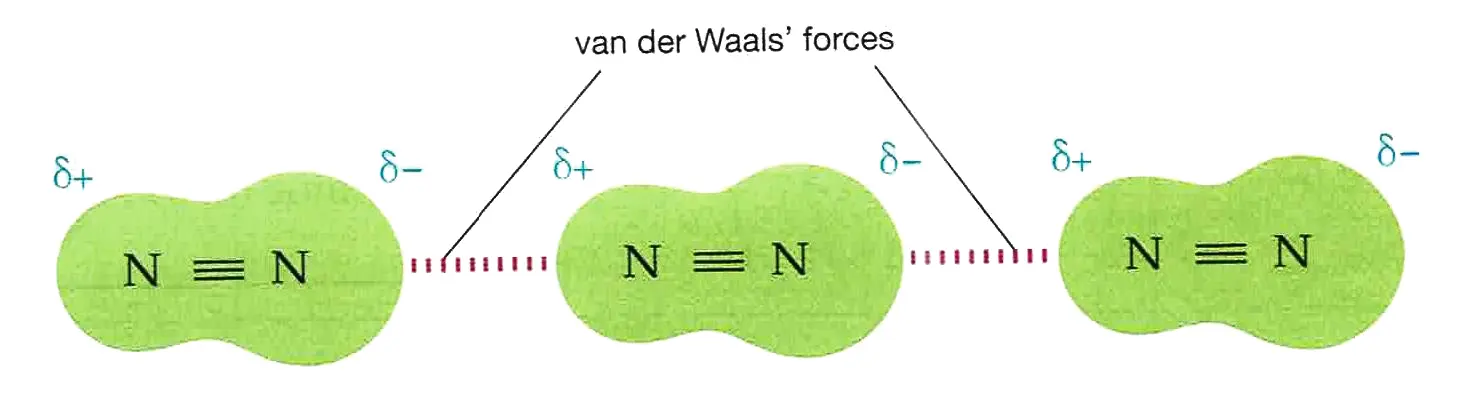
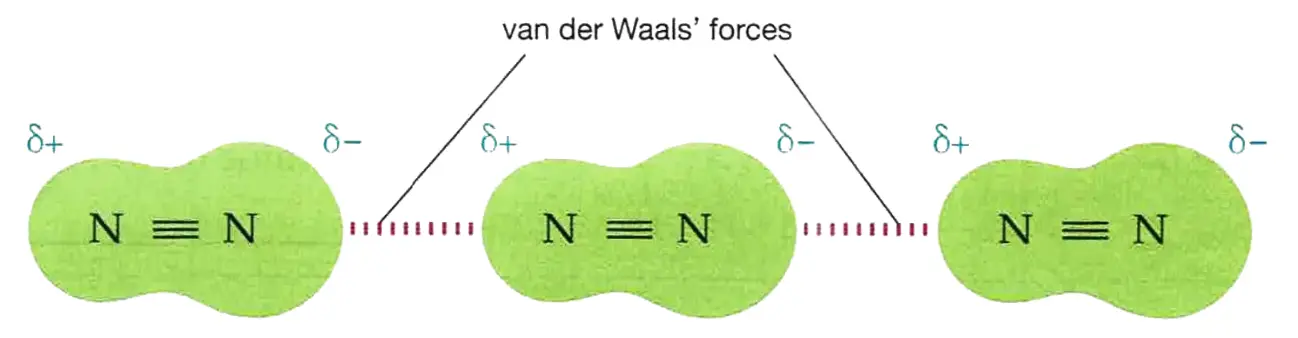
chemistry: Convert more chemical structures to TikZ

diff --git a/Chemistry/Organic Chemistry/Important organic compounds/Aspirin.md b/Chemistry/Organic Chemistry/Important organic compounds/Aspirin.md
@@ -1,4 +1,9 @@
-![[aspirin.webp|250]]
+```tikz
+\usepackage{chemfig}
+\begin{document}
+\chemfig{*6(-=(-O-[0]C(=[6]O)-[0]CH_3)-(-C(=[2]O)-[0]OH)=-=)}
+\end{document}
+```
 **Aspirin** (acetylsalicylic acid) is a common active ingredient found in <span class="hi-green">pain killers</span>. It has a <u>carboxyl group</u> ($\ce{-COOH}$) and <u>ester group</u> ($\ce{-OCOCH3}$).
 
 # Production of Aspirin
@@ -16,15 +21,34 @@
 
 ## Alternatives
 *Paracetamol*:
-![[paracetomal.webp|250]]
+```tikz
+\usepackage{chemfig}
+\begin{document}
+\chemfig{*6((-HO)-=-(-N(-[2,.35,,,,draw=none]H)-[::-60](=[6]O)-)=-=)}
+\end{document}
+```
 
 # Solubility of Aspirin
 **Aspirin** is <span class="hi-green">non-polar</span> and only <span class="hi-green">slightly soluble</span> in water.
 
 In order to make it work more quickly, it is reacted with $\ce{NaOH}$ to produce sodium salt of aspirin, which it has a giant ionic structure with ionic bond to dissolve inside stomach acid and get into the bloodstream more rapidly.
 
-![[aspirin_dissolve.webp|600]]
+```tikz
+\usepackage{chemfig}
+\begin{document}
+\chemfig{*6(-=(-OCOCH_3)-(-COOH)=-=)}
+\raisebox{0.4cm}{
+\quad + \quad
+\chemfig{NaOH}
+\quad\raisebox{0.1cm}{\schemestart\arrow\schemestop}\quad
+}
+\chemfig{*6(-=(-OCOCH_3)-(-COO^{-}Na^{+})=-=)}
+\raisebox{0.4cm}{
+\quad + \quad
+\chemfig{H_2O}
+}
+\end{document}
+```
 
 > [!warning]
 > To not lose the chemical function of aspirin, the reaction mixture <u>will not be heated under reflux</u>. This prevents the alkaline hydrolysis of the ester group of aspirin.
-

diff --git a/Chemistry/Structures and Patterns in Chemicals/Structure and bondings/Simple molecules/Intermolecular forces/Van der Waals' forces.md b/Chemistry/Structures and Patterns in Chemicals/Structure and bondings/Simple molecules/Intermolecular forces/Van der Waals' forces.md
@@ -6,7 +6,7 @@
 **Polar molecules** have permanent partial positive and partial negative charges, allowing them to be attracted to an end of another molecule by van der Waals’ forces (dipole-dipole forces).
 
 ## Non-polar molecules
-![[n2_vdw.webp|450]]
+![[n2_vdw.webp|500]]
 **Non-polar molecules** have no permanent partial positive and partial negative charges.
 
 However, the random movements of electrons causes an uneven distribution of electrons in atoms of non-polar molecules. This causes the molecule to become polar (the atoms carry partial positive and partial negative charge) instantaneously.
@@ -31,4 +31,3 @@ This force is also know as dispersion forces / London forces.
 > ![[mpbp_shapes_of_molecules.webp|500]]
 > - Pentane has a higher boiling point as it is <span class="hi-green">more linear in shape</span> than 2,2-dimethylpropane, the contact surface area between molecules is larger. The strength of van der Waals' forces is higher <u>in liquid state</u>.
 > - 2,2-dimethylpropane has a higher melting point as it has a <span class="hi-green">higher packing efficiency</span> than pentane. The strength of van der Waals' forces is higher <u>in solid state</u>.
-

diff --git a/Chemistry/Structures and Patterns in Chemicals/Structure and bondings/Simple molecules/Intermolecular forces/Solubility and miscibility.md b/Chemistry/Structures and Patterns in Chemicals/Structure and bondings/Simple molecules/Intermolecular forces/Solubility and miscibility.md
@@ -23,9 +23,14 @@ In general: [[ionic bonds]] ≈ [[hydrogen bonds]] >> [[van der Waals' forces]]
 # Predominant force
 Molecules which can form hydrogen bond with water is not necessarily soluble in water.
 
-![[c10h21oh.webp|500]]
+```tikz
+\usepackage{chemfig}
+\begin{document}
+\chemfig{H-C(-[2]H)(-[6]H)-C(-[2]H)(-[6]H)-C(-[2]H)(-[6]H)-C(-[2]H)(-[6]H)-C(-[2]H)(-[6]H)-C(-[2]H)(-[6]H)-C(-[2]H)(-[6]H)-C(-[2]H)(-[6]H)-C(-[2]H)(-[6]H)-C(-[2]H)(-[6]H)-\underline{OH}}
+\end{document}
+```
 
-Although the above molecule possess an $\ce{O-H}$ bond and can form [[hydrogen bonds|hydrogen bond]] with water, it is insoluble in water.
+Although the above molecule possess an $\ce{O-H}$ bond and can form [[hydrogen bonds]] with water, it is insoluble in water.
 - The molecule has a large molecular size, the carbon parent chain is very long.
   (longer than $\ce{C4 - C6}$)
 - The [[van der Waals' forces]] becomes predominant between molecules instead of hydrogen bonds.

diff --git a/Chemistry/Structures and Patterns in Chemicals/Structure and bondings/Simple molecules/Intermolecular forces/Polarity of bonds and molecules.md b/Chemistry/Structures and Patterns in Chemicals/Structure and bondings/Simple molecules/Intermolecular forces/Polarity of bonds and molecules.md
@@ -51,7 +51,26 @@ The <u>difference in electronegativities</u> between the two atoms of a covalent
    When polar bonds are <u>arranged asymmetrically</u>, the molecule is <u>polar</u>.
 
 Consider $\ce{CHCl3}$ and $\ce{CCl4}$:
-![[chcl3.webp|180]] ![[ccl4.webp|180]]
+```tikz
+\usepackage{chemfig}
+\begin{document}
+\chemfig{
+  C
+  ([::-45]<:Cl)
+  ([:-90]<Cl)
+  ([::-135]-Cl)
+  ([:90]-H)
+}
+\qquad\qquad\qquad
+\chemfig{
+  C
+  ([::-45]<:Cl)
+  ([:-90]<Cl)
+  ([::-135]-Cl)
+  ([:90]-Cl)
+}
+\end{document}
+```
 - For $\ce{CHCl3}$, it has a tetrahedral structure. The dipole moments of the $\ce{C-H}$ and $\ce{C-Cl}$ bonds cannot exactly cancel out. Therefore, it is a polar molecule.
 - For $\ce{CCl4}$, it has a tetrahedral structure. The dipole moments of the $\ce{C-Cl}$ bonds exactly cancel out. Therefore, it is a non-polar molecule.
 

diff --git a/Chemistry/Structures and Patterns in Chemicals/Structure and bondings/Oxides of elements.md b/Chemistry/Structures and Patterns in Chemicals/Structure and bondings/Oxides of elements.md
@@ -32,7 +32,12 @@ $\ce{Al2O3}$ is <span class="hi-blue">amphoteric</span>. It shows both acidic an
 ## Sulphur dioxide ($\ce{SO2}$)
 > [!note]
 > $\ce{SO2}$ has double bonds in its structure, and the $\ce{S}$ atom is non-octet.
-> ![[so2_structure.webp|80]]
+> ```tikz
+> \usepackage{chemfig}
+> \begin{document}
+> \chemfig{\lewis{2:,S}(=[5]\lewis{4:6:,O})(=[7]\lewis{0:6:,O})}
+> \end{document}
+> ```
 
 - **Reaction with water**
   $\ce{SO2(g) + H2O(ℓ) ⇌ H2SO3(aq)}$
